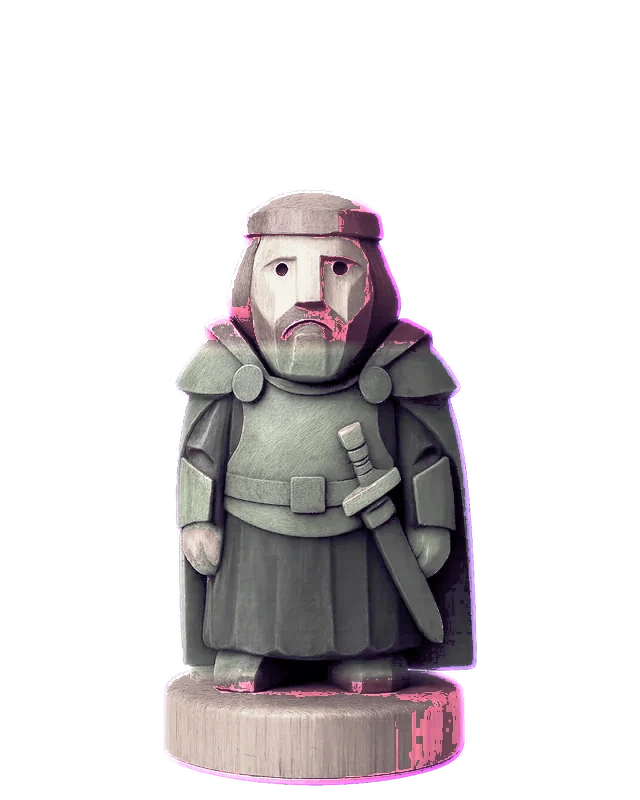
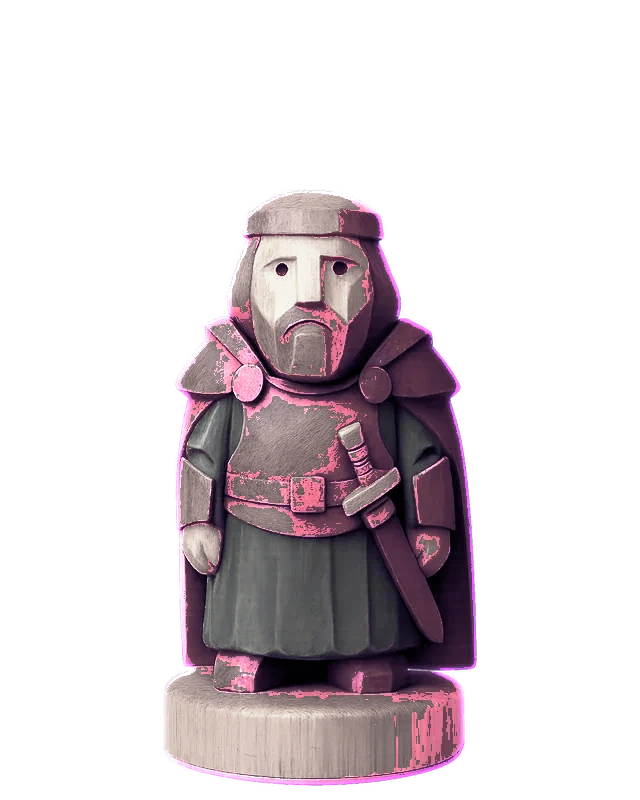
v0.54.0 Gambit-Restauration (sechs Ur-Zeichnungen aus v0.32.0 zurueck, Rasterfaerbung getilgt; Schattenzwillinge frisch via verdorben-v2 + v5, Torwaechter 6/6), die Figurenwerkstatt unter ?werkstatt (57 Paare, Regler je Figur, localStorage, Farbwinkel-Ersetzer, Zip-Export der Gegenseite samt einstel

Changed region(s): [[0.25, 0.3438, 0.75, 0.9688], [0.5625, 0.3438, 0.5938, 0.375]]

diff --git a/src/app/ui/WerkstattScreen.jsx b/src/app/ui/WerkstattScreen.jsx
@@ -1,0 +1,270 @@
+// ── DIE FIGURENWERKSTATT ────────────────────────────────────────────────────
+// Idee des Besitzers (v0.54): "Ein Tool, bei dem ich selber Farbsaettigung,
+// Farbe-ersetzen und die Dinge, die du rumprobiert hast, pro Figur einstelle,
+// abspeichere - und am Ende ein sauberes Zip exportiere, wie die Gegenseite
+// aussehen muss." Erreichbar nur ueber ?werkstatt, wie die Galerie.
+//
+// Bauart: links (bzw. oben am Handy) die Vorschau - helle Schwester als
+// Referenz daneben; darunter die Regler des v5-Rezepts plus Farbersatz.
+// Einstellungen wohnen je Figur in localStorage (gg_werkstatt_v1). Das Zip
+// (eigener Mini-Schreiber, unkomprimiert gespeicherte Eintraege mit CRC32)
+// enthaelt ALLE dunklen Figuren, jede mit ihren gespeicherten Reglern -
+// unangefasste Figuren gehen unveraendert hinein.
+import { useEffect, useMemo, useRef, useState } from "react";
+import { CARVED_LIGHT, CARVED_DARK, CARVED_BOSS_LIGHT, CARVED_BOSS_DARK } from "./board/carvedArt.js";
+import { T } from "./theme.js";
+
+const STANDARD = {
+  spreizen: 0,        // 0..1: Tonwertspreizung p2->p98
+  sattGrau: 1.0,      // Chroma der nicht-violetten Zonen (0..1.2)
+  sattLila: 1.0,      // Chroma des violetten Koerpers (0..1.2)
+  glimmSchwelle: 72,  // Perzentil, ab dem Violett als Kontur zaehlt (50..95)
+  glimmStaerke: 1.0,  // Leuchtkraft der Kontur (1..2.2)
+  glimmChroma: 1.0,   // Farbsattheit der Kontur (0.8..1.6)
+  ersatzAn: false,    // Farbe ersetzen ein/aus
+  ersatzVon: 200,     // Quell-Farbwinkel 0..360
+  ersatzToleranz: 40, // +- Grad
+  ersatzNach: 275,    // Ziel-Farbwinkel
+};
+const V5 = { ...STANDARD, spreizen: 1, sattGrau: 0.28, sattLila: 0.75, glimmSchwelle: 72, glimmStaerke: 1.62, glimmChroma: 1.18 };
+
+const SCHLUESSEL = "gg_werkstatt_v1";
+const leseAlle = () => { try { return JSON.parse(localStorage.getItem(SCHLUESSEL) || "{}"); } catch { return {}; } };
+const schreibeAlle = (d) => { try { localStorage.setItem(SCHLUESSEL, JSON.stringify(d)); } catch {} };
+
+// ── Bildrechnung auf ImageData, 1:1 das v5-Vokabular ───────────────────────
+function rechne(id, w, h, p) {
+  const d = id.data, n = w * h;
+  const L = new Float32Array(n);
+  for (let i = 0; i < n; i++) L[i] = d[i*4]*.299 + d[i*4+1]*.587 + d[i*4+2]*.114;
+  // Perzentile der Figur (Alpha>32)
+  const werte = [];
+  for (let i = 0; i < n; i++) if (d[i*4+3] > 32) werte.push(L[i]);
+  werte.sort((a,b)=>a-b);
+  const perz = (q) => werte.length ? werte[Math.min(werte.length-1, Math.floor(q/100*werte.length))] : 0;
+  const p2 = perz(2), p98 = perz(98);
+  // Pass 1: Spreizung + Farbersatz, danach Violett-Statistik sammeln
+  const violett = new Uint8Array(n); const lWerte = [];
+  for (let i = 0; i < n; i++) {
+    if (d[i*4+3] <= 32) continue;
+    let r=d[i*4], g=d[i*4+1], b=d[i*4+2];
+    if (p.spreizen > 0 && p98 > p2) {
+      const alt = L[i];
+      const neu = Math.max(0, Math.min(255, (alt - p2)/(p98-p2)*238 + 5));
+      const f = alt > 0.01 ? (1 + p.spreizen*(neu/alt - 1)) : 1;
+      r=Math.min(255,r*f); g=Math.min(255,g*f); b=Math.min(255,b*f);
+    }
+    if (p.ersatzAn) {
+      const mx=Math.max(r,g,b), mn=Math.min(r,g,b);
+      if (mx-mn > 8) {
+        let hUE;
+        if (mx===r) hUE=((g-b)/(mx-mn))%6; else if (mx===g) hUE=(b-r)/(mx-mn)+2; else hUE=(r-g)/(mx-mn)+4;
+        hUE = (hUE*60+360)%360;
+        let diff = Math.abs(hUE - p.ersatzVon); if (diff>180) diff=360-diff;
+        if (diff <= p.ersatzToleranz) {
+          const l2=(mx+mn)/2, s=(mx-mn)/(255-Math.abs(2*l2-255)||1);
+          const c=(1-Math.abs(2*l2/255-1))*s*255, hz=p.ersatzNach/60, x=c*(1-Math.abs(hz%2-1));
+          let rr=0,gg=0,bb=0;
+          if(hz<1){rr=c;gg=x;}else if(hz<2){rr=x;gg=c;}else if(hz<3){gg=c;bb=x;}
+          else if(hz<4){gg=x;bb=c;}else if(hz<5){rr=x;bb=c;}else{rr=c;bb=x;}
+          const m0=l2-c/2; r=Math.max(0,Math.min(255,rr+m0)); g=Math.max(0,Math.min(255,gg+m0)); b=Math.max(0,Math.min(255,bb+m0));
+        }
+      }
+    }
+    d[i*4]=r; d[i*4+1]=g; d[i*4+2]=b;
+    const l2 = r*.299+g*.587+b*.114;
+    const mx=Math.max(r,g,b), mn=Math.min(r,g,b), sat = mx>0.01 ? (mx-mn)/mx : 0;
+    if (b > g+12 && r > g+4 && sat > 0.20) { violett[i]=1; lWerte.push(l2); }
+  }
+  lWerte.sort((a,b)=>a-b);
+  const gSchwelle = lWerte.length>50 ? lWerte[Math.min(lWerte.length-1, Math.floor(p.glimmSchwelle/100*lWerte.length))] : 1e9;
+  // Pass 2: Entfaerben + Glimmen
+  for (let i = 0; i < n; i++) {
+    if (d[i*4+3] <= 32) continue;
+    let r=d[i*4], g=d[i*4+1], b=d[i*4+2];
+    const l2 = r*.299+g*.587+b*.114;
+    const glimmt = violett[i] && l2 >= gSchwelle;
+    const chroma = glimmt ? 1 : (violett[i] ? p.sattLila : p.sattGrau);
+    r = l2 + (r-l2)*chroma; g = l2 + (g-l2)*chroma; b = l2 + (b-l2)*chroma;
+    if (glimmt) {
+      r=Math.min(255,r*p.glimmStaerke); g=Math.min(255,g*p.glimmStaerke); b=Math.min(255,b*p.glimmStaerke);
+      const l3=r*.299+g*.587+b*.114;
+      r=Math.max(0,Math.min(255,l3+(r-l3)*p.glimmChroma));
+      g=Math.max(0,Math.min(255,l3+(g-l3)*p.glimmChroma));
+      b=Math.max(0,Math.min(255,l3+(b-l3)*p.glimmChroma));
+    }
+    d[i*4]=r; d[i*4+1]=g; d[i*4+2]=b;
+  }
+  return id;
+}
+
+// ── Mini-Zip (gespeicherte Eintraege, CRC32) ───────────────────────────────
+const CRC_TAB = (() => { const t=new Uint32Array(256);
+  for(let i=0;i<256;i++){let c=i;for(let k=0;k<8;k++)c=c&1?0xEDB88320^(c>>>1):c>>>1;t[i]=c;} return t; })();
+const crc32 = (u8) => { let c=0xFFFFFFFF; for(let i=0;i<u8.length;i++) c=CRC_TAB[(c^u8[i])&0xFF]^(c>>>8); return (c^0xFFFFFFFF)>>>0; };
+function baueZip(eintraege) { // [{name, daten:Uint8Array}]
+  const teile=[]; const zentral=[]; let versatz=0;
+  const kl=(v,n)=>{const a=new Uint8Array(n);for(let i=0;i<n;i++)a[i]=(v>>>(8*i))&0xFF;return a;};
+  for (const {name, daten} of eintraege) {
+    const nb=new TextEncoder().encode(name); const crc=crc32(daten);
+    const kopf=[kl(0x04034b50,4),kl(20,2),kl(0,2),kl(0,2),kl(0,2),kl(0,2),kl(crc,4),kl(daten.length,4),kl(daten.length,4),kl(nb.length,2),kl(0,2),nb];
+    for(const t of kopf)teile.push(t); teile.push(daten);
+    zentral.push({nb,crc,len:daten.length,versatz});
+    versatz += kopf.reduce((s,t)=>s+t.length,0)+daten.length;
+  }
+  const zStart=versatz;
+  for(const z of zentral){
+    for(const t of [kl(0x02014b50,4),kl(20,2),kl(20,2),kl(0,2),kl(0,2),kl(0,2),kl(0,2),kl(z.crc,4),kl(z.len,4),kl(z.len,4),kl(z.nb.length,2),kl(0,2),kl(0,2),kl(0,2),kl(0,2),kl(0,4),kl(z.versatz,4),z.nb]) teile.push(t);
+    versatz += 46 + z.nb.length;
+  }
+  teile.push(kl(0x06054b50,4),kl(0,2),kl(0,2),kl(zentral.length,2),kl(zentral.length,2),kl(versatz-zStart,4),kl(zStart,4),kl(0,2));
+  const ges=teile.reduce((s,t)=>s+t.length,0); const aus=new Uint8Array(ges); let o=0;
+  for(const t of teile){aus.set(t,o);o+=t.length;}
+  return aus;
+}
+
+const REGLER = [
+  ["spreizen","Tonwertspreizung",0,1,0.05],
+  ["sattGrau","Farbe Grau-Zone",0,1.2,0.02],
+  ["sattLila","Farbe Lila-Körper",0,1.2,0.02],
+  ["glimmSchwelle","Glimmen-Schwelle (Perzentil)",50,95,1],
+  ["glimmStaerke","Glimmen-Leuchtkraft",1,2.2,0.02],
+  ["glimmChroma","Glimmen-Sattheit",0.8,1.6,0.02],
+];
+
+export function WerkstattScreen() {
+  const KATALOG = useMemo(() => {
+    const k = [];
+    for (const [id, url] of Object.entries(CARVED_DARK)) k.push({ id, dunkel: url, hell: CARVED_LIGHT[id] });
+    for (const [id, url] of Object.entries(CARVED_BOSS_DARK)) k.push({ id, dunkel: url, hell: CARVED_BOSS_LIGHT[id] });
+    return k.sort((a, b) => a.id.localeCompare(b.id));
+  }, []);
+  const [idx, setIdx] = useState(0);
+  const [alle, setAlle] = useState(leseAlle);
+  const fig = KATALOG[idx];
+  const [p, setP] = useState(() => ({ ...STANDARD, ...(leseAlle()[KATALOG[0]?.id] || {}) }));
+  const [status, setStatus] = useState("");
+  const cvRef = useRef(null); const bildRef = useRef(null);
+
+  useEffect(() => { setP({ ...STANDARD, ...(alle[fig?.id] || {}) }); }, [idx]);
+
+  // Vorschau rechnen (entprellt)
+  useEffect(() => {
+    if (!fig) return;
+    const t = setTimeout(() => {
+      const img = new Image();
+      img.onload = () => {
+        bildRef.current = img;
+        const cv = cvRef.current; if (!cv) return;
+        cv.width = img.naturalWidth; cv.height = img.naturalHeight;
+        const cx = cv.getContext("2d", { willReadFrequently: true });
+        cx.clearRect(0, 0, cv.width, cv.height);
+        cx.drawImage(img, 0, 0);
+        const id = cx.getImageData(0, 0, cv.width, cv.height);
+        rechne(id, cv.width, cv.height, p);
+        cx.putImageData(id, 0, 0);
+      };
+      img.src = fig.dunkel;
+    }, 120);
+    return () => clearTimeout(t);
+  }, [fig, p]);
+
+  const speichern = () => { const n = { ...alle, [fig.id]: p }; setAlle(n); schreibeAlle(n); setStatus(`Gespeichert: ${fig.id}`); };
+  const aufAlle = () => { const n = {}; for (const f of KATALOG) n[f.id] = p; setAlle(n); schreibeAlle(n); setStatus("Auf alle Figuren angewandt"); };
+  const zuruecksetzen = () => { const n = { ...alle }; delete n[fig.id]; setAlle(n); schreibeAlle(n); setP({ ...STANDARD }); setStatus(`Zurückgesetzt: ${fig.id}`); };
+
+  const exportiere = async () => {
+    setStatus("Exportiere …");
+    const eintraege = [];
+    for (let i = 0; i < KATALOG.length; i++) {
+      const f = KATALOG[i];
+      setStatus(`Rechne ${i + 1}/${KATALOG.length}: ${f.id}`);
+      const img = await new Promise((res, rej) => { const im = new Image(); im.onload = () => res(im); im.onerror = rej; im.src = f.dunkel; });
+      const cv = document.createElement("canvas");
+      cv.width = img.naturalWidth; cv.height = img.naturalHeight;
+      const cx = cv.getContext("2d", { willReadFrequently: true });
+      cx.drawImage(img, 0, 0);
+      const einst = alle[f.id];
+      if (einst) { const id = cx.getImageData(0, 0, cv.width, cv.height); rechne(id, cv.width, cv.height, { ...STANDARD, ...einst }); cx.putImageData(id, 0, 0); }
+      const blob = await new Promise((res) => cv.toBlob(res, "image/webp", 0.92));
+      const daten = new Uint8Array(await blob.arrayBuffer());
+      const name = (f.id.startsWith("b") && f.id.length === 3 ? `carved-boss-${f.id}-dark` : `carved-${f.id}-dark`) + ".webp";
+      eintraege.push({ name, daten });
+      await new Promise((r) => setTimeout(r, 0));
+    }
+    eintraege.push({ name: "einstellungen.json", daten: new TextEncoder().encode(JSON.stringify(alle, null, 2)) });
+    const zip = baueZip(eintraege);
+    const url = URL.createObjectURL(new Blob([zip], { type: "application/zip" }));
+    const a = document.createElement("a"); a.href = url; a.download = "gegenseite.zip"; a.click();
+    setTimeout(() => URL.revokeObjectURL(url), 4000);
+    setStatus(`Zip mit ${eintraege.length - 1} Figuren + Einstellungen exportiert`);
+  };
+
+  if (!fig) return null;
+  const geaendert = !!alle[fig.id];
+  const knopf = { padding: "9px 12px", borderRadius: 10, border: `1px solid ${T.line}`, background: T.panel,
+    color: T.text, fontFamily: "inherit", fontWeight: 800, fontSize: 12.5, cursor: "pointer" };
+  return (
+    <div style={{ minHeight: "100vh", background: T.bg, color: T.text, padding: "14px 12px 40px", maxWidth: 560, margin: "0 auto" }}>
+      <div className="gg-serif" style={{ fontSize: 20, color: T.goldBright, letterSpacing: ".05em", marginBottom: 2 }}>Die Figurenwerkstatt</div>
+      <div style={{ fontSize: 11.5, color: T.dim, marginBottom: 10 }}>Regler je Figur speichern · am Ende „Zip exportieren" — das Paket ist die Gegenseite, wie sie sein soll.</div>
+
+      <div style={{ display: "flex", gap: 8, alignItems: "center", marginBottom: 8 }}>
+        <button style={knopf} onClick={() => setIdx((idx - 1 + KATALOG.length) % KATALOG.length)}>‹</button>
+        <select value={idx} onChange={(e) => setIdx(+e.target.value)}
+          style={{ flex: 1, padding: "9px 10px", borderRadius: 10, border: `1px solid ${T.line}`, background: T.panel, color: T.text, fontFamily: "inherit", fontSize: 13 }}>
+          {KATALOG.map((f, i) => <option key={f.id} value={i}>{f.id}{alle[f.id] ? " ●" : ""}</option>)}
+        </select>
+        <button style={knopf} onClick={() => setIdx((idx + 1) % KATALOG.length)}>›</button>
+      </div>
+
+      <div style={{ display: "flex", gap: 8, marginBottom: 10 }}>
+        <div style={{ flex: 1, borderRadius: 12, border: `1px solid ${T.line}`, background: "#100d1a", padding: 6, display: "grid", placeItems: "center" }}>
+          <canvas ref={cvRef} style={{ maxWidth: "100%", maxHeight: 300 }} />
+          <div style={{ fontSize: 10.5, color: T.faint }}>Gegenseite (live){geaendert ? " · eigene Regler" : ""}</div>
+        </div>
+        <div style={{ width: 120, borderRadius: 12, border: `1px solid ${T.line}`, background: "#100d1a", padding: 6, display: "grid", placeItems: "center" }}>
+          <img src={fig.hell} alt="" style={{ maxWidth: "100%", maxHeight: 300 }} />
+          <div style={{ fontSize: 10.5, color: T.faint }}>helle Schwester</div>
+        </div>
+      </div>
+
+      {REGLER.map(([k, name, min, max, schritt]) => (
+        <div key={k} style={{ marginBottom: 7 }}>
+          <div style={{ display: "flex", justifyContent: "space-between", fontSize: 11.5 }}>
+            <span>{name}</span><span style={{ color: T.goldBright, fontWeight: 800 }}>{(+p[k]).toFixed(2)}</span>
+          </div>
+          <input type="range" min={min} max={max} step={schritt} value={p[k]}
+            onChange={(e) => setP({ ...p, [k]: +e.target.value })} style={{ width: "100%" }} />
+        </div>
+      ))}
+
+      <div style={{ borderTop: `1px solid ${T.line}`, margin: "10px 0", paddingTop: 8 }}>
+        <label style={{ fontSize: 12, display: "flex", gap: 8, alignItems: "center", marginBottom: 6 }}>
+          <input type="checkbox" checked={p.ersatzAn} onChange={(e) => setP({ ...p, ersatzAn: e.target.checked })} />
+          Farbe ersetzen (Farbwinkel)
+        </label>
+        {p.ersatzAn && ["ersatzVon", "ersatzToleranz", "ersatzNach"].map((k) => (
+          <div key={k} style={{ marginBottom: 6 }}>
+            <div style={{ display: "flex", justifyContent: "space-between", fontSize: 11.5 }}>
+              <span>{k === "ersatzVon" ? "Von Farbton" : k === "ersatzToleranz" ? "± Toleranz" : "Nach Farbton"}</span>
+              <span style={{ color: T.goldBright, fontWeight: 800 }}>{p[k]}°</span>
+            </div>
+            <input type="range" min={k === "ersatzToleranz" ? 5 : 0} max={k === "ersatzToleranz" ? 120 : 360} step={1}
+              value={p[k]} onChange={(e) => setP({ ...p, [k]: +e.target.value })} style={{ width: "100%" }} />
+          </div>
+        ))}
+      </div>
+
+      <div style={{ display: "flex", flexWrap: "wrap", gap: 8, marginTop: 6 }}>
+        <button style={{ ...knopf, borderColor: `${T.gold}66`, color: T.goldBright }} onClick={speichern}>Für Figur speichern</button>
+        <button style={knopf} onClick={() => setP({ ...V5 })}>v5-Startwerte</button>
+        <button style={knopf} onClick={aufAlle}>Auf alle anwenden</button>
+        <button style={knopf} onClick={zuruecksetzen}>Zurücksetzen</button>
+        <button style={{ ...knopf, background: `linear-gradient(160deg,#f0d68a,#d9b565 55%,#b08c44)`, color: "#17110a", border: "none" }}
+          onClick={exportiere}>Zip exportieren</button>
+      </div>
+      <div style={{ fontSize: 11.5, color: T.dim, marginTop: 8, minHeight: 16 }}>{status}</div>
+    </div>
+  );
+}

diff --git a/src/app/App.jsx b/src/app/App.jsx
@@ -28,6 +28,7 @@ import { CampaignScreen } from "./ui/screens/CampaignScreen.jsx";
 import { MysticBackground } from "./ui/MysticBackground.jsx";
 import { RissBoden } from "./ui/RissBoden.jsx";
 import { MENUE_LEHREN } from "../content/lehren.js";
+import { WerkstattScreen } from "./ui/WerkstattScreen.jsx";
 import karteKampagne from "./ui/assets/karten/karte-kampagne.webp";
 import karteSchnell from "./ui/assets/karten/karte-schnell.webp";
 import karteOnline from "./ui/assets/karten/karte-online.webp";
@@ -145,6 +146,7 @@ const TABS = [
 
 export default function App() {
   const galerie = typeof location !== "undefined" && new URLSearchParams(location.search).has("galerie");
+  const werkstatt = typeof location !== "undefined" && new URLSearchParams(location.search).has("werkstatt");
   const [profile, dispatch] = useReducer(reducer, null);
   // which livery the house wears — asked from the Hall once per boot
   const [houseDesign, setHouseDesign] = useState(null);
@@ -298,6 +300,8 @@ export default function App() {
   // Hooks (Hook-Reihenfolge bleibt stabil) und VOR Anmeldung/Spielstand,
   // damit sie auch ohne Konto aufgeht. (DS1 §17)
   if (galerie) return <GalerieScreen />;
+  // DIE FIGURENWERKSTATT (Besitzer, v0.54): nur ueber ?werkstatt erreichbar.
+  if (werkstatt) return <WerkstattScreen />;
   if (!authReady) return null;
   if (!account) return <LoginScreen onSignedIn={(acc) => setAccount(acc)} />;
   if (!slot) return <SavesScreen account={account} initialLang={profile?.lang || "de"}

diff --git a/CHANGELOG.md b/CHANGELOG.md
@@ -1,5 +1,28 @@
 # Changelog - Grand Gambit
 
+## 0.54.0
+
+GAMBIT GEHEILT, DIE FIGURENWERKSTATT, KLASSISCHE FIGUREN AN BORD:
+
+- GAMBIT-RESTAURATION: die sechs unbeschaedigten Ur-Zeichnungen (v0.32.0)
+  sind aus dem Git-Verlauf zurueckgeholt - die Rasterfaerbung der damaligen
+  Cluster-Umfaerbung (v0.32.1) ist damit aus der App verschwunden. Die sechs
+  Schattenwesen-Zwillinge wurden aus den restaurierten Hellen frisch
+  gerechnet (verdorben-v2, Torwaechter 6/6 ok) und tragen das v5-Rezept.
+- DIE FIGURENWERKSTATT (?werkstatt): das Besitzer-Tool. Alle 57 Figuren-
+  paare, je Figur Regler fuer Tonwertspreizung, Farbe der Grau-Zone, Farbe
+  des Lila-Koerpers, Glimmen-Schwelle/-Leuchtkraft/-Sattheit und ein
+  Farbwinkel-Ersetzer; Einstellungen wohnen je Figur im Geraet
+  (localStorage), v5-Startwerte per Knopf, helle Schwester als Referenz
+  daneben. "Zip exportieren" rechnet ALLE Gegenseiten mit ihren Reglern und
+  liefert gegenseite.zip (eigener Zip-Schreiber, plus einstellungen.json) -
+  das Paket ist die Gegenseite, wie sie sein soll.
+- KLASSISCHE FIGUREN (vom Besitzer geliefert): Bauer, Laeufer, Koenig, Dame,
+  Springer der dunklen Seite freigestellt (weisser Grund und Schlagschatten
+  entfernt), auf 640x800 bodenverankert und unter assets/klassisch/
+  eingelagert. Es fehlen noch: der TURM und die HELLE Seite - erst dann kann
+  der Stil als Brettfiguren-Option verdrahtet werden.
+
 ## 0.53.0
 
 DIE VERDORBENEN, NEU AUSGELEUCHTET (Tonwert-Rezept v5, Besitzer-abgenommen):
